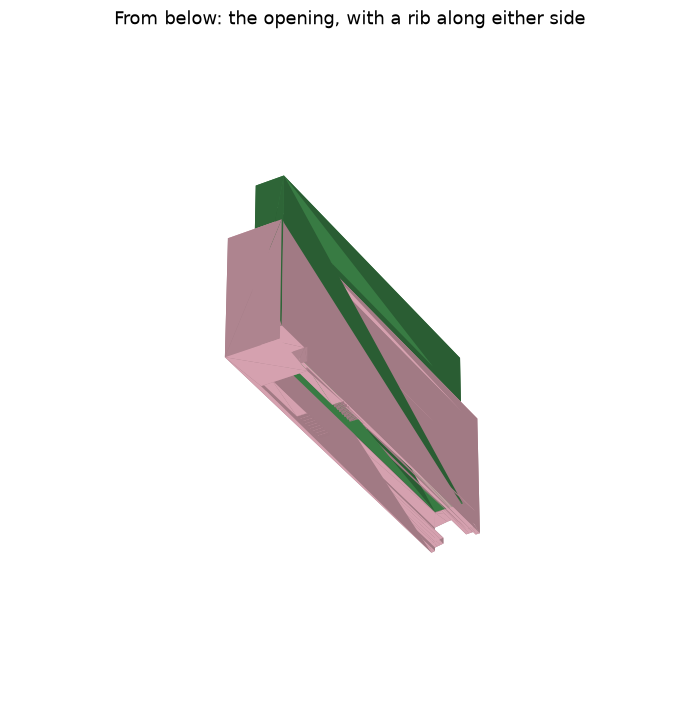
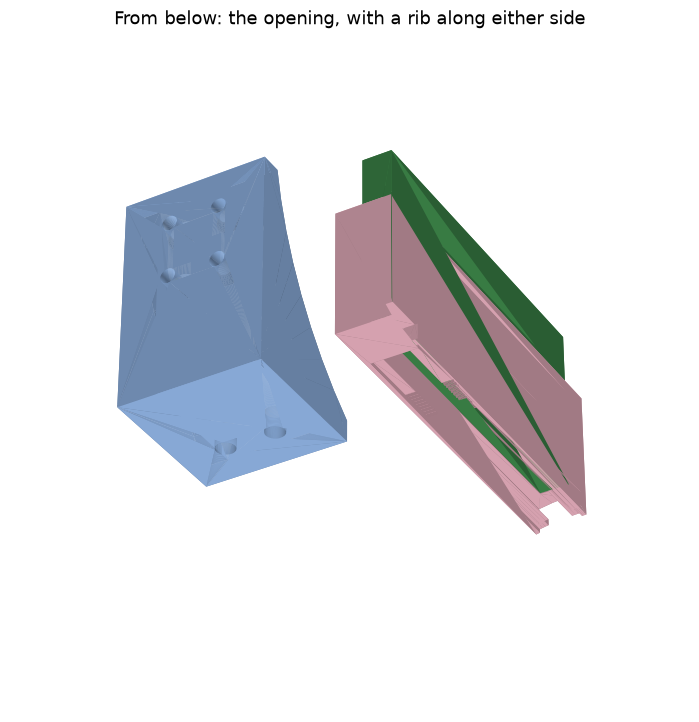
drawer-glass-clip: a bracket, an angle with two M5 bolts in its foot and four screws in its upright leg

Changed region(s): [[0.1502, 0.2133, 0.8412, 0.7618]]

diff --git a/parts/drawer-glass-clip/part.py b/parts/drawer-glass-clip/part.py
@@ -6,23 +6,30 @@ opening, near its bottom edge, with room behind it for a holder to grip onto, an
 One end is flat. The other end's face curves across the clip: it is full length at the side the slot is furthest from,
 and sweeps back to the side the slot is nearest to.
 
+A bracket goes with it, an angle with a web at either side. Its foot is bolted down with two M5 bolts, and its
+upright leg is screwed on with four 4 mm countersunk screws. It is drawn beside the clip.
+
 Every size is a named constant below. Coordinates: x across, toward the side the slot is nearest to, y along from the
 flat end, z up from the bottom.
 
 Run through bin/part, which checks it and writes the printable files to build/.
 """
 
+import math
 import sys
 from pathlib import Path
 
-from build123d import Align, Box, Cylinder, Plane, Polygon, Pos, Rot, extrude
+from build123d import Align, Box, Circle, Cone, Cylinder, Plane, Polygon, Pos, Rot, extrude
 
 # What the parts share is in lib/; put it on the path, since bin/part's PYTHONPATH is not there when this file is
 # run some other way.
 sys.path.insert(0, str(Path(__file__).resolve().parents[2] / "lib"))
 import plate  # noqa: E402
+from printers import chosen  # noqa: E402
 
 HERE = Path(__file__).parent
+# The fits the calibration piece showed for the printer and material the build is for (printers.toml).
+FITS = chosen().fits
 CUT = 1  # a cut runs this far past what it cuts through, so it leaves no skin
 JOIN = 1  # a shape added to another runs this far into it, so the two are one solid
 MIN = (Align.CENTER, Align.CENTER, Align.MIN)
@@ -51,6 +58,24 @@ PITCH = 1.2  # from one groove to the next, along
 RIDGES = 11  # the grooves in a rib
 RIDGES_FROM = 31  # the first groove, from the flat end: read off the photo
 
+# The bracket.
+BRACKET_WIDE = 40  # the bracket, across, the user's choice
+FOOT = 40  # the bracket's foot, from the upright leg's back to its front, the user's choice
+UPRIGHT = 60  # the bracket's upright leg, from the foot's underside to its top, the user's choice
+LEG = 6  # the foot and the upright leg, thick, the user's choice
+WEB = 6  # the web at either side, between the foot and the upright leg, thick
+WEB_HOLLOW = 6  # how far a web's edge curves in at its middle, from a straight line between its ends
+BOLT = 5.0  # an M5 bolt's thread, ISO 4762
+BOLT_APART = 14  # between the two bolts, across
+BOLT_Y = 28  # the bolts, from the upright leg's back
+SCREW = 4.0  # the thread of a 4 mm countersunk chipboard screw, DIN 7997
+HEAD = 8.0  # that screw's head across, DIN 7997
+HEAD_ANGLE = 90  # degrees, the cone under that screw's head, DIN 7997
+SCREW_APART = 14  # between the two screws of a row, across
+SCREW_UP = 34  # the lower row of screws, up from the foot's underside
+SCREW_ROWS = 16  # from the lower row of screws to the upper row
+BESIDE = 20  # between the clip and the bracket, as they are drawn
+
 SLOT = GLASS_THICK + 2 * SLIDE  # the slot, across
 SLOT_LENGTH = GLASS_EDGE + 2 * END  # the slot, along
 SLOT_X = WIDTH / 2 - SLOT_WALL - SLOT / 2  # the middle of the slot and of the glass, across
@@ -61,11 +86,19 @@ SPARE = GLASS_STOP - RIB_IN - RIB - BEHIND  # what the room behind a rib has ove
 # The curved end's face is an arc across the clip, hollow: square to the short side where it meets it, and SWEEP
 # further along at the long side.
 ARC = (WIDTH**2 + SWEEP**2) / (2 * SWEEP)  # that arc's radius; its middle is this far past the end at the short side
+BRACKET_X = -(WIDTH / 2 + BESIDE + BRACKET_WIDE / 2)  # the middle of the bracket, across
+BOLT_HOLE = BOLT / 2 + FITS.screw_hole  # the radius of the hole a bolt slides through
+SHAFT = SCREW / 2 + FITS.screw_hole  # the radius of the hole a screw slides through
+SEAT = HEAD / 2 + FITS.screw_hole  # the radius of the cone seat at the upright leg's front
+SEAT_DEPTH = (SEAT - SHAFT) / math.tan(math.radians(HEAD_ANGLE / 2))  # the cone seat, in from the leg's front
+WEB_CHORD = math.hypot(FOOT - LEG, UPRIGHT - LEG)  # a web's edge as a straight line, from the foot's front to the leg's top
+WEB_ARC = (WEB_CHORD**2 / 4 + WEB_HOLLOW**2) / (2 * WEB_HOLLOW)  # the radius of the arc a web's edge is
 VIEWS = (
     *plate.ANGLE,
     ("above.png", 90, -90, "From above: the glass in its slot, and the curved end"),
     ("under.png", -35, -60, "From below: the opening, with a rib along either side"),
     ("bottom.png", -90, -90, "The bottom: the opening, the ribs and their ridges"),
+    ("bracket.png", 25, 130, "The bracket: two bolts through the foot, four screws through the upright leg"),
 )
 
 
@@ -94,6 +127,33 @@ def clip():
     return Box(WIDTH, LENGTH, DEPTH, align=FROM) - slot - opening + ribs() - hollow
 
 
+def bracket():
+    """The angle: a foot and an upright leg, with a web at either side. x across from its middle, y from the upright
+    leg's back, z up from the foot's underside."""
+    foot = Box(BRACKET_WIDE, FOOT, LEG, align=FROM)
+    upright = Box(BRACKET_WIDE, LEG, UPRIGHT, align=FROM)
+    # A web from the side: the sketch's x is the part's y, and its y the part's z. It runs from the foot's front to
+    # the upright leg's top.
+    side = Polygon((LEG - JOIN, LEG - JOIN), (FOOT, LEG - JOIN), (FOOT, LEG), (LEG, UPRIGHT), (LEG - JOIN, UPRIGHT), align=None)
+    # Its edge is an arc, hollow, through the same two ends. The arc's middle is out past the edge, square to it
+    # from its middle: (UPRIGHT - LEG, FOOT - LEG) / WEB_CHORD is that direction.
+    out = WEB_ARC - WEB_HOLLOW
+    middle = Pos((FOOT + LEG) / 2 + out * (UPRIGHT - LEG) / WEB_CHORD, (LEG + UPRIGHT) / 2 + out * (FOOT - LEG) / WEB_CHORD)
+    web = extrude(Plane.YZ * (side - middle * Circle(WEB_ARC)), WEB)
+    webs = Pos(-BRACKET_WIDE / 2, 0, 0) * web + Pos(BRACKET_WIDE / 2 - WEB, 0, 0) * web
+    cuts = []
+    for x in (-BOLT_APART / 2, BOLT_APART / 2):
+        cuts.append(Pos(x, BOLT_Y, -CUT) * Cylinder(BOLT_HOLE, LEG + 2 * CUT, align=MIN))
+    for x, z in ((x, z) for x in (-SCREW_APART / 2, SCREW_APART / 2) for z in (SCREW_UP, SCREW_UP + SCREW_ROWS)):
+        # A screw goes in from the front, between the webs; -90° about x turns a shape's z to y.
+        cuts.append(Pos(x, -CUT, z) * Rot(-90, 0, 0) * Cylinder(SHAFT, LEG + 2 * CUT, align=MIN))
+        cuts.append(Pos(x, LEG - SEAT_DEPTH, z) * Rot(-90, 0, 0) * Cone(SHAFT, SEAT, SEAT_DEPTH, align=MIN))
+    whole = foot + upright + webs
+    for cut in cuts:
+        whole -= cut
+    return Pos(BRACKET_X, 0, 0) * whole
+
+
 def glass():
     """The glass, as a block: the edge that stands in the slot, and the start of the pane above it."""
     return Pos(SLOT_X, SLOT_FROM + END, GLASS_STOP) * Box(GLASS_THICK, GLASS_EDGE, GLASS_SHOWN, align=FROM)
@@ -103,12 +163,14 @@ def main():
     # The clip prints standing on its flat end, so every layer is a ring or a U round the glass, and the glass cannot
     # split the walls off. The slot's far end bridges from wall to wall. A brim keeps the tall piece on the
     # plate.
+    # The bracket prints lying on its side, so every layer is the whole angle and the load does not split the legs
+    # apart. The web on top hangs over the room between the webs, so it prints on supports.
     plate.run(
         HERE,
-        printed={"clip": clip()},
+        printed={"clip": clip(), "bracket": bracket()},
         bought={"glass": glass()},
-        turn={"clip": Rot(90, 0, 0)},
-        slicer={"clip": {"brim_type": "outer_only", "brim_width": "5"}},
+        turn={"clip": Rot(90, 0, 0), "bracket": Rot(0, 90, 0)},
+        slicer={"clip": {"brim_type": "outer_only", "brim_width": "5"}, "bracket": {"enable_support": "1"}},
         views=VIEWS,
     )
 

diff --git a/parts/drawer-glass-clip/README.md b/parts/drawer-glass-clip/README.md
@@ -2,7 +2,8 @@
 
 A sleeve that connects a plate of glass to the front of a drawer. The glass comes in from the
 top, and the drawer's holders slide in at the curved end and grip onto ridged ribs in an opening
-in the bottom. It is a draft: some sizes are read off photos of the original.
+in the bottom. It is a draft: some sizes are read off photos of the original. A bracket goes
+with it: an angle that is bolted down through its foot and screwed on through its upright leg.
 
 ![drawer-glass-clip](pictures/angle.png)
 
@@ -12,15 +13,20 @@ in the bottom. It is a draft: some sizes are read off photos of the original.
 
 ![The bottom](pictures/bottom.png)
 
+![The bracket](pictures/bracket.png)
+
 ## Parts
 
 | Printed | Count | Prints | Supports |
 | --- | --- | --- | --- |
 | `clip` | 1 | Standing on its flat end, with a 5 mm brim | None |
+| `bracket` | 1 | Lying on its side | Under the web on top |
 
 | Bought | Count | Source |
 | --- | --- | --- |
 | The plate of glass, 8 mm thick, with an 89 mm edge in the slot | 1 | In the house |
+| M5 bolt, with 6 mm of its length in the bracket's foot | 2 | Hardware store |
+| Countersunk chipboard screw, 4 mm, 8 mm head (DIN 7997), with 6 mm of its length in the bracket's leg | 4 | Hardware store |
 
 The clip is 100 mm long, 15.1 mm wide and 35 mm from bottom to top. The 35 mm is read off a
 photo of the original on a cutting mat.
@@ -56,10 +62,29 @@ slot's upper end bridges 8.4 mm, from wall to wall. The ribs stand on the solid 
 grooves' faces lean 34° from upright. Nothing takes supports. The piece is 100 mm tall on a
 15.1 × 35 mm foot, and a brim keeps it on the plate.
 
+The bracket is an angle, 40 mm wide. Its foot is 40 mm deep and its upright leg 60 mm high, and
+both are 6 mm thick. A web, 6 mm thick, joins the two at either side, from the foot's front to
+the leg's top, and leaves 28 mm between the webs for the bolts, the screws and a driver. A web's
+edge is a hollow curve, an arc that is 6 mm in from a straight line at its middle.
+
+Two M5 bolts go down through the foot, 14 mm apart and 28 mm from the leg's back. Four 4 mm
+countersunk screws go through the upright leg from the front, in two rows of two: 14 mm apart,
+34 and 50 mm above the foot's underside, with their heads sunk into the leg's front. Each hole
+is its bolt or screw with the `screw_hole` fit from `printers.toml` on either side.
+
+The bracket lies on its side when it prints. Every layer is then the whole angle with its web,
+so a load that pulls the legs apart runs along the layers. The web on top hangs over the room
+between the webs and prints on supports, which the plate turns on for this piece
+(`enable_support`).
+
+The bracket is drawn beside the clip, 20 mm from it.
+
 ## Putting it together
 
 1. Slide the clip onto the drawer's holders, curved end first, so they grip the ribs.
 2. Slide the glass's edge down into the slot, onto its floor.
+3. Bolt the bracket's foot down with the two M5 bolts, from above, between the webs.
+4. Screw the bracket's upright leg on with the four 4 mm screws, from the front, between the webs.
 
 ## Printing
 
